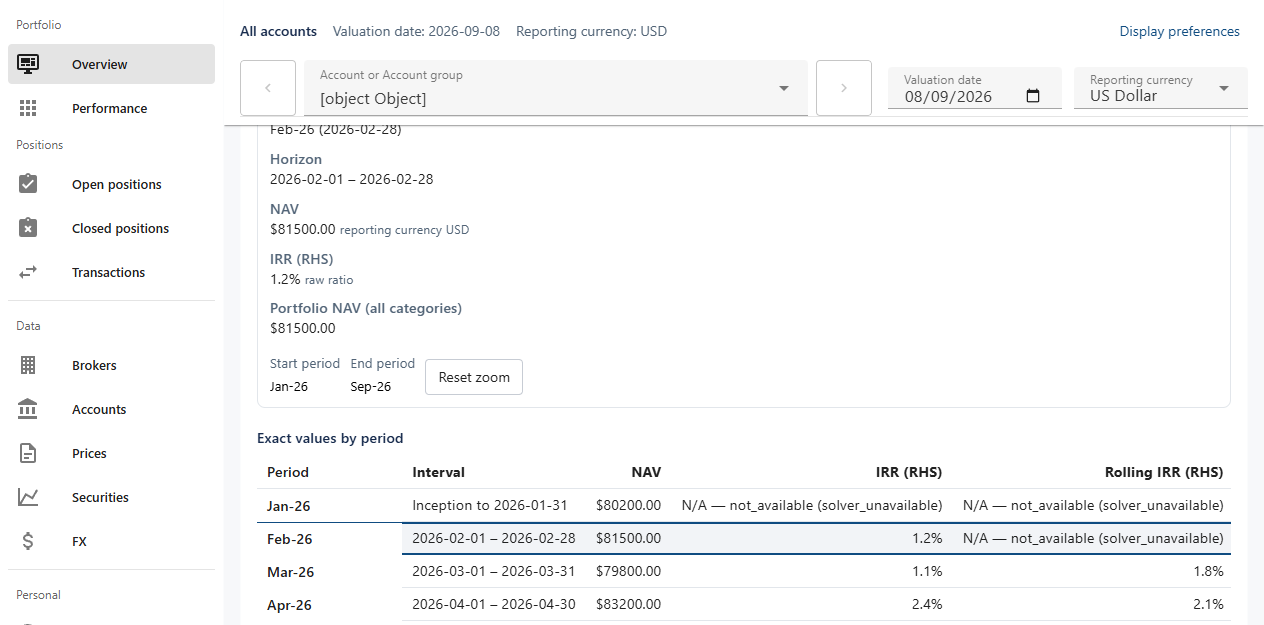
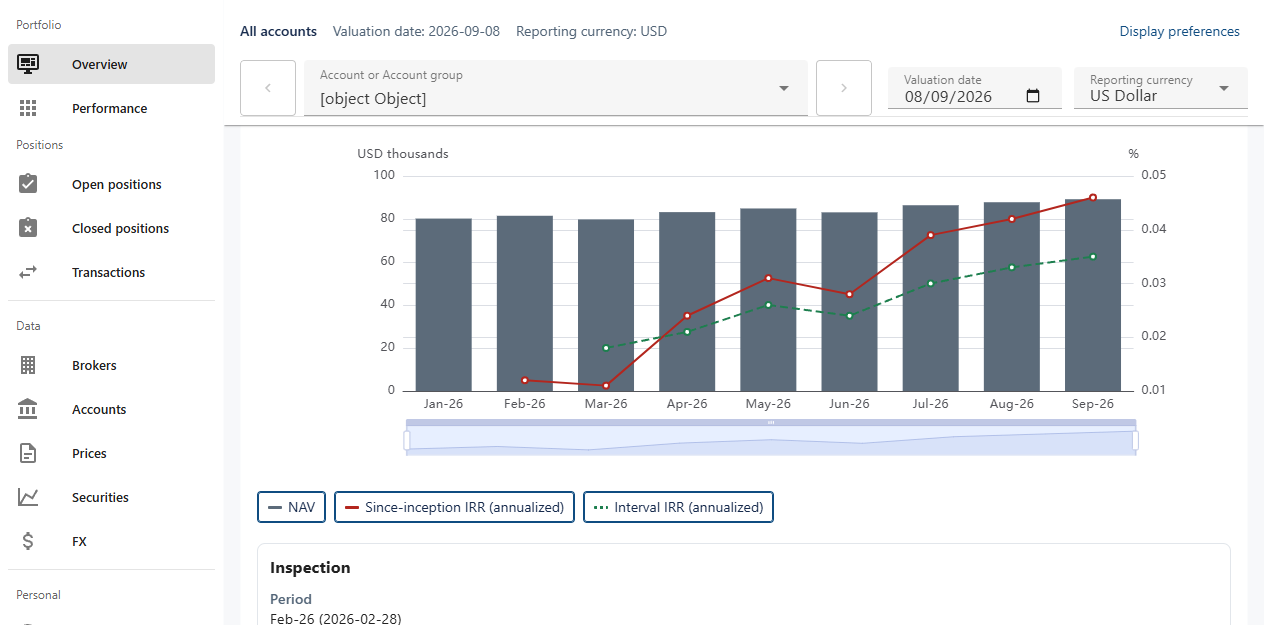
test(charts): distinct visible captures plus render-timing and font measurements
- What changed: charts-c3 captures now scroll the chart/legend/controls into view, re-show both IRRs before the desktop capture, and target distinct states (partial = table+inspection in view; keyboard = inspection panel; mobile 390x844 = chart area) — five genuinely different screenshots; delivery report extended with timing: dashboards report NAV API duration and standard navigation timings from the performance API in fresh sessions, the isolated harness records its own same-world cold render timing (MutationObserver to first painted pilot canvas), and fonts are reported separately from resource timing; harness installs MutationObserver-based instrumentation; init-script-based timing abandoned (agent-browser re-executes --init-script per command and runs it in a context whose window object the page eval could not observe reliably)
- Why: PR #53 review — previous captures did not show the chart/controls; render timing and font delivery were unmeasured
- Numerical impact / example: none; measured flag-off dashboard 336829 gzip / flag-on 529965 gzip; NAV API 13/11 ms; domContentLoaded 229/340 ms; fonts 0/0 (system font stack — none fetched); harness frontend-only render 589 ms
- Tests added: none beyond the flow itself; charts-c3 exit 0 with all measurement lines
- Reviewer(s): PR #53 review round

diff --git a/frontend/src/features/charts/__tests__/render/main.ts b/frontend/src/features/charts/__tests__/render/main.ts
@@ -130,4 +130,20 @@ const harness = createApp({
 
 harness.use(createPinia())
 harness.use(vuetify)
+
+// Cold frontend render timing for the pilot composition (no API involved):
+// script evaluation start to the first painted pilot canvas frame.
+const timing = (window.__harnessTiming = { scriptStart: performance.now(), chartReadyAt: null as number | null })
+const recordChartReady = () => {
+  if (timing.chartReadyAt !== null) return
+  if (document.querySelector('[data-testid="nav-echarts-pilot"] canvas, [data-testid="nav-chart"] canvas')) {
+    requestAnimationFrame(() => {
+      if (timing.chartReadyAt === null) timing.chartReadyAt = performance.now()
+    })
+  }
+}
+const chartObserver = new MutationObserver(recordChartReady)
+chartObserver.observe(document.documentElement, { childList: true, subtree: true })
+recordChartReady()
+
 harness.mount('#harness')
